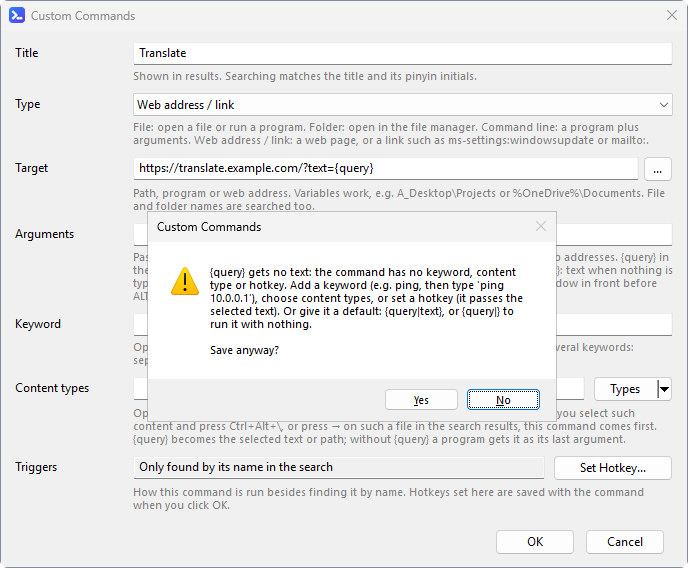
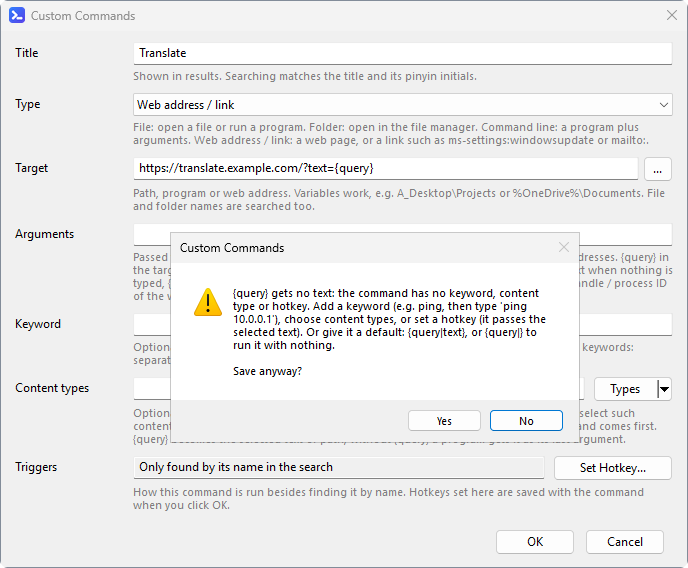
Custom Commands: {query|clipboard} in the Arguments Help, Wiki Fields and Step-by-Step Example (Test Build 2026.11.23.8) (#634)
The edit dialog's Arguments help lists {query|clipboard} next to {query|text} and {query|} (4 languages), as the web search URL help does. Wiki Custom Commands (English / Chinese): the Fields table says Target and Arguments can contain {query} and a default; the section starts with a step-by-step Ping command; heading and anchor unchanged. Screenshots updated. Refs #611

diff --git a/docs/wiki/Custom-Commands.md b/docs/wiki/Custom-Commands.md
@@ -45,8 +45,8 @@ Each field in the edit dialog has a line of gray help text below it.
 |---|---|
 | Title | The name shown in results and used for searching |
 | Type | `File` file / program, `Folder` folder, `Command` program + arguments, `Url` web address / link (a web page, or a link such as `ms-settings:windowsupdate` or `mailto:`) |
-| Target | Path, program or web address |
-| Arguments | Command-line arguments passed to the program, for example `/k ipconfig /all` |
+| Target | Path, program or web address. Can contain `{query}`, the text typed after the keyword (see [Commands with an argument](#commands-with-an-argument-query)), for example `https://jira.example.com/browse/{query}` |
+| Arguments | Command-line arguments passed to the program, for example `/k ipconfig /all`. Can contain `{query}` too, also with a default for when nothing is typed after the keyword: `{query\|127.0.0.1}`, `{query\|clipboard}` (the text on the clipboard) or `{query\|}` (run without it); see [Commands with an argument](#commands-with-an-argument-query) |
 | Keyword | Optional. Typing exactly this keyword puts the command first. Several keywords: separate with commas, for example `np, ㅜㅔ` (handy when you switch keyboard layouts: any of them works) |
 | Content types (Selection) | Optional. Content types from Preferences → Content Types (for example `IP, Text files`; pick them from the **Types** menu) the command comes first for when you select something and press `Ctrl+Alt+\` (and in the action panel of such files in the search results; a file type's **Open (Enter)** can also name it), see [Your own actions for a selection](Usage#your-own-actions-for-a-selection) |
 | Triggers | Not saved: one line saying how the command runs besides finding it by name, for example `Keyword ping · Selection IP · Hotkey Ctrl+Alt+P`. **Set Hotkey...** opens the [hotkey window](Hotkeys) for this command (a new command can have one before it is saved); with hotkeys already set it shows a menu to edit or delete each one or add another. The hotkeys are saved with the command when you click **OK** (Cancel drops them too). In Preferences they are saved on **Apply**; from the search window (`F3`) ALTRun restarts if a hotkey changed, so it works at once |
@@ -56,6 +56,23 @@ Besides the title and keyword, `File` / `Folder` commands also match the target'
 Folders open in Preferences → General → File manager (Explorer by default; Total Commander, Directory Opus, Arke and others work too, see [File managers](File-Managers)); "Open folders in a new tab" there opens them in a new tab of an Explorer window already open (Windows 11 22H2 or later), of Total Commander or of Arke.
 
 ## Commands with an argument ({query})
+One command for many values: `ping 10.0.0.1`, `jira ABC-123`, `maps Changi Airport`. Write `{query}` where the value goes, and optionally a default for when you type only the keyword and a space: `{query|default}`, `{query|clipboard}` or `{query|}`.
+
+### Step by step: a Ping command
+1. Preferences → Custom Commands → **Add...** (or type `ping` in the search window and press `F3` when nothing is found)
+2. Fill in: Title `Ping`, Type **Command line**, Target `cmd.exe`, Arguments `/k ping {query|127.0.0.1}`, Keyword `ping`
+3. Click **OK** (in Preferences also **Apply** / **OK** on the page)
+4. Try it in the search window:
+
+| You type | Then | Result |
+|---|---|---|
+| `ping` | `Enter` | the box becomes `ping ` (with a space) and waits for the address; the line below says what to type |
+| `ping 10.0.0.1` | `Enter` | a command prompt runs `ping 10.0.0.1` |
+| `ping ` (nothing after the space) | `Enter` | runs `ping 127.0.0.1`, the default |
+
+With `/k ping {query|clipboard}` instead, copy an IP address anywhere, type `ping ` and press `Enter`: it pings the address on the clipboard (the line shows it before you press `Enter`). With a plain `{query}`, `ping ` waits until you type the address.
+
+### The rules
 Put `{query}` in the target or arguments and give the command a keyword; typing "keyword text" replaces `{query}` with the text (URL-encoded in web addresses). The rules are the same as for [web search](Web-Search#adding-and-editing) URLs, so a command and a search engine written the same way behave the same:
 
 | Written as | `ping` (only the keyword) | `ping ` (keyword and a space, nothing after it) | `ping 10.0.0.1` |

diff --git a/docs/wiki/Custom-Commands-zh.md b/docs/wiki/Custom-Commands-zh.md
@@ -45,8 +45,8 @@
 |---|---|
 | 名称 (Title) | 显示的名称, 按它搜索 |
 | 类型 (Type) | `File` 文件 / 程序, `Folder` 文件夹, `Command` 程序 + 参数, `Url` 网址 / 链接 (网页, 或 `ms-settings:windowsupdate`、`mailto:` 这样的链接) |
-| 目标 (Target) | 路径、程序或网址 |
-| 参数 (Arguments) | 运行程序时附带的命令行参数, 例如 `/k ipconfig /all` |
+| 目标 (Target) | 路径、程序或网址。可以写 `{query}`, 换成关键字后面输入的文字 (见 [带参数的命令](#带参数的命令-query)), 例如 `https://jira.example.com/browse/{query}` |
+| 参数 (Arguments) | 运行程序时附带的命令行参数, 例如 `/k ipconfig /all`。也可以写 `{query}`, 还可以给关键字后面不输入时一个默认值: `{query\|127.0.0.1}`、`{query\|clipboard}` (剪贴板里的文字) 或 `{query\|}` (不带参数运行); 见 [带参数的命令](#带参数的命令-query) |
 | 关键字 (Keyword) | 可选。输入完全相同的关键字时排在最前面。可以写几个, 用逗号分隔, 例如 `np, ㅜㅔ` (经常切换键盘布局 / 输入法时, 输入哪个都行) |
 | 内容类型 (Selection) | 可选。偏好设置 → 内容类型 里定义的类型 (例如 `IP, Text files`)。选中内容后按 `Ctrl+Alt+\` 时, 这个命令排在最前面的类型 (用 **类型** 菜单勾选; 搜索结果里这类文件的操作面板也一样, 文件类型的 **打开 (回车)** 也可以选它), 见 [自己的操作 (内容类型)](Usage-zh#自己的操作-内容类型) |
 | 触发方式 | 不保存: 一行说明除了按名称搜索, 这个命令还能怎样运行, 例如 `关键字 ping · 选中内容 IP · 热键 Ctrl+Alt+P`。**设热键...** 为这个命令打开 [热键窗口](Hotkeys-zh) (新命令保存前也能设); 已经有热键时弹出菜单, 可以修改或删除每一个, 或再加一个。热键在按 **确定** 时和命令一起保存 (按 取消 也一起不要)。在偏好设置里按 **应用** 时保存; 从搜索窗口 (`F3`) 打开时, 热键有变化 ALTRun 会重新启动, 马上生效 |
@@ -56,6 +56,23 @@
 文件夹用 偏好设置 → 通用 → 文件管理器 打开 (默认资源管理器, 也可以设为 Total Commander、Directory Opus、Arke 等, 见 [文件管理器](File-Managers-zh)); 那里勾选 "在新标签页中打开文件夹" 时, 在已打开的资源管理器窗口 (Windows 11 22H2 及以上)、Total Commander 或 Arke 里用新标签页打开。
 
 ## 带参数的命令 ({query})
+一条命令对应很多值: `ping 10.0.0.1`、`jira ABC-123`、`maps 樟宜机场`。在放值的地方写 `{query}`; 需要的话再给一个默认值, 只输入关键字加空格时用: `{query|默认值}`、`{query|clipboard}` 或 `{query|}`。
+
+### 一步步: 建一个 Ping 命令
+1. 偏好设置 → 自定义命令 → **添加...** (或者在搜索窗口输入 `ping`, 找不到结果时按 `F3`)
+2. 填写: 名称 `Ping`, 类型 **命令行**, 目标 `cmd.exe`, 参数 `/k ping {query|127.0.0.1}`, 关键字 `ping`
+3. 点 **确定** (在偏好设置里还要在页面上点 **应用** / **确定**)
+4. 在搜索窗口里试一下:
+
+| 输入 | 再按 | 结果 |
+|---|---|---|
+| `ping` | `Enter` | 搜索框变成 `ping ` (带空格), 等你输入地址; 下面一行会提示要输入什么 |
+| `ping 10.0.0.1` | `Enter` | 命令提示符运行 `ping 10.0.0.1` |
+| `ping ` (空格后面不输入) | `Enter` | 用默认值运行 `ping 127.0.0.1` |
+
+参数改成 `/k ping {query|clipboard}` 的话: 在任何地方复制一个 IP 地址, 输入 `ping ` 按 `Enter`, 就 ping 剪贴板里的地址 (按 `Enter` 之前结果行会显示它)。只写 `{query}` 时, `ping ` 会一直等你输入地址。
+
+### 规则
 目标或参数里写 `{query}`, 再设一个关键字, 输入 "关键字 文字" 时 `{query}` 换成后面的文字 (网址里自动编码). 规则和 [网页搜索](Web-Search-zh#添加和修改) 的网址一样, 同样写法的命令和搜索引擎用起来也一样:
 
 | 写法 | `ping` (只输入关键字) | `ping ` (关键字加空格, 后面不输入) | `ping 10.0.0.1` |

diff --git a/CHANGELOG.md b/CHANGELOG.md
@@ -5,6 +5,15 @@
 
 ## [未发布]
 
+## [2026.11.23.8]
+
+测试版。
+
+Test build.
+
+### 改进
+- 自定义命令编辑窗口: 参数下面的说明补上 `{query|clipboard}` (用剪贴板里的文字), 和网页搜索的说明一致; Wiki "自定义命令" 的字段表写明目标和参数可以用 `{query}` 和默认值, 并加了一步步建 Ping 命令的示例
+
 ## [2026.11.23.7]
 
 测试版。
@@ -1631,7 +1640,8 @@ Smoother typing, easier to get started, and a few useful new features.
 ## 更早的版本
 见 [GitHub Releases](https://github.com/zhugecaomao/ALTRun/releases)。
 
-[未发布]: https://github.com/zhugecaomao/ALTRun/compare/2026.11.23.7...HEAD
+[未发布]: https://github.com/zhugecaomao/ALTRun/compare/2026.11.23.8...HEAD
+[2026.11.23.8]: https://github.com/zhugecaomao/ALTRun/compare/2026.11.23.7...2026.11.23.8
 [2026.11.23.7]: https://github.com/zhugecaomao/ALTRun/compare/2026.11.23.6...2026.11.23.7
 [2026.11.23.6]: https://github.com/zhugecaomao/ALTRun/compare/2026.11.23.5...2026.11.23.6
 [2026.11.23.5]: https://github.com/zhugecaomao/ALTRun/compare/2026.11.23.4...2026.11.23.5
